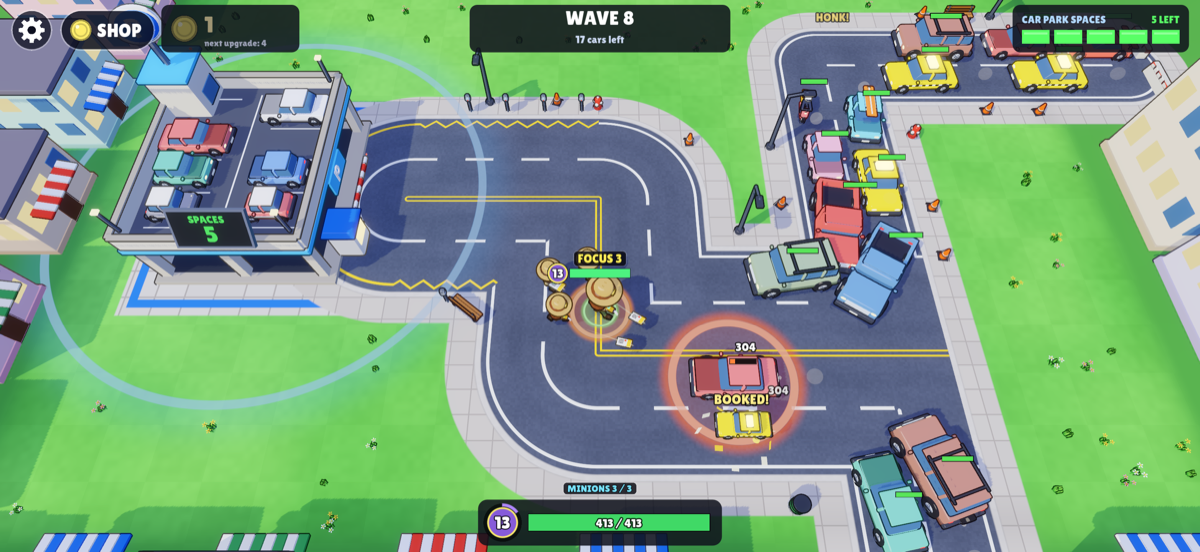
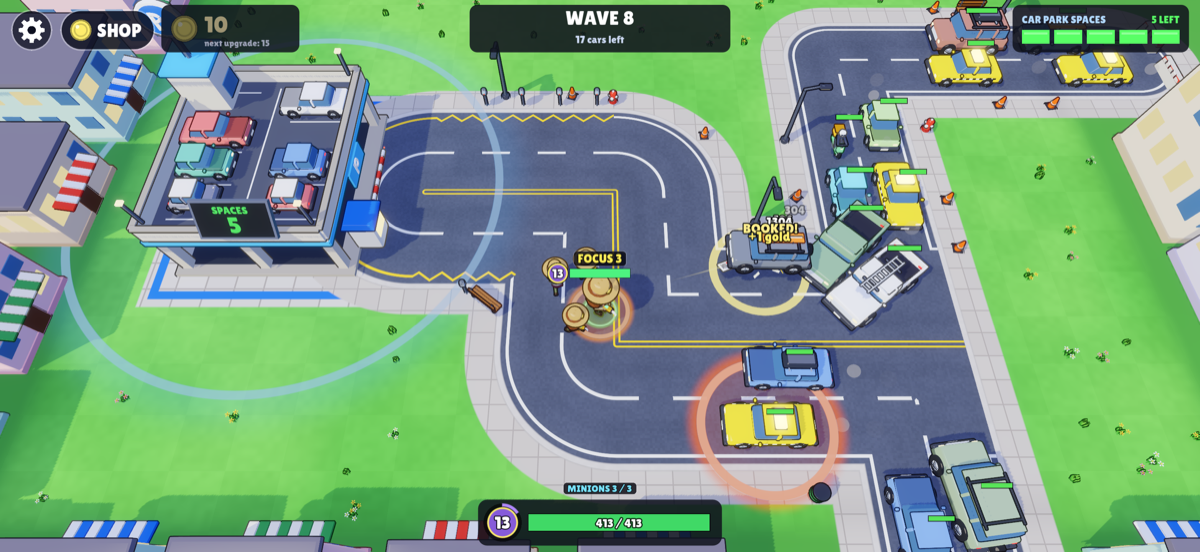
Parking Defense: 'parking officer' wording; new screenshot

diff --git a/parking-defense/README.md b/parking-defense/README.md
@@ -1,7 +1,7 @@
 # Parking Defense
 
 A tower defense game for iPhone. Cars keep coming, wave after wave: as the parking
-ranger, ticket them before they reach the car park. How long can you hold out?
+officer, ticket them before they reach the car park. How long can you hold out?
 
 Coming soon to the App Store.
 
